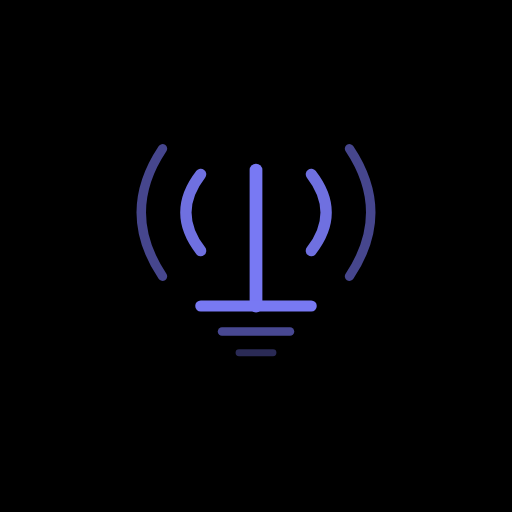
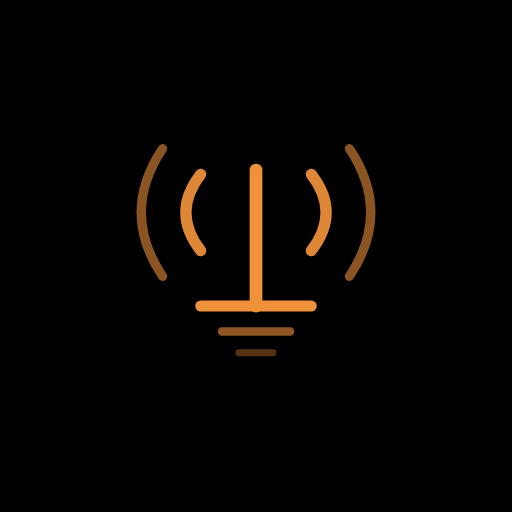
Swap accent from purple to amber; restore header theme toggle
- Replaced the indigo/purple accent with warm amber across both themes
  (--amber, --amber-dim, all glow rgba values) — restoring PileUp's
  original radio-dial color. Recolored the secondary --blue away from
  indigo to a clean complementary blue for the grid square.
- Regenerated app icons (180/192/512) and the OG share card in amber so
  the home-screen icon and link preview match the UI. Icon SVG recolored.
- Brought a one-tap light/dark toggle back into the header (it had been
  moved to Tools and was hard to find). Shows current mode, flips on tap,
  and stays in sync with the Tools buttons via applyTheme.

Version bump to 2026.07.04b (sw cache pileup-2026.07.04b).

https://claude.ai/code/session_01CcAmGgxQRBuJMKzBQd3JDc

diff --git a/index.html b/index.html
@@ -27,25 +27,25 @@
 <style>
   :root{
     --bg:#000000;--nav-bg:#080808;--panel:#0e0e0e;--panel2:#181818;--line:#282828;
-    --amber:#7879F3;--amber-dim:#5858E0;
+    --amber:#f0923c;--amber-dim:#c9772a;
     --green:#AED8CA;--green-dim:#2E8B7A;
-    --blue:#C1C1F2;--blue-dim:#8485F4;
+    --blue:#8bb4e8;--blue-dim:#5a8fd0;
     --red:#e8635a;
     --ink:#f4f4f6;--ink-dim:#9aa8c2;
     --mono:"SF Mono",ui-monospace,Menlo,Consolas,"Roboto Mono",monospace;
     --header-bg:#000000;
   }
-  .brand h1{text-shadow:0 0 14px rgba(120,121,243,.9),0 0 32px rgba(120,121,243,.5),0 0 64px rgba(120,121,243,.25);}
-  .clock .val{text-shadow:0 0 12px rgba(120,121,243,.85),0 0 28px rgba(120,121,243,.45);}
-  .ident-call{text-shadow:0 0 10px rgba(120,121,243,.75),0 0 22px rgba(120,121,243,.35);}
-  .ident-grid{text-shadow:0 0 10px rgba(193,193,242,.75),0 0 22px rgba(193,193,242,.35);}
+  .brand h1{text-shadow:0 0 14px rgba(240,146,60,.9),0 0 32px rgba(240,146,60,.5),0 0 64px rgba(240,146,60,.25);}
+  .clock .val{text-shadow:0 0 12px rgba(240,146,60,.85),0 0 28px rgba(240,146,60,.45);}
+  .ident-call{text-shadow:0 0 10px rgba(240,146,60,.75),0 0 22px rgba(240,146,60,.35);}
+  .ident-grid{text-shadow:0 0 10px rgba(139,180,232,.75),0 0 22px rgba(139,180,232,.35);}
   .netdot.on{box-shadow:0 0 8px var(--green),0 0 16px rgba(174,216,202,.5);}
 
   [data-theme="light"]{
     --bg:#F9FBFF;--nav-bg:#F7F7F7;--panel:#FFFFFF;--panel2:#F7F7F7;--line:#E4E4E4;
-    --amber:#6566F1;--amber-dim:#8485F4;
+    --amber:#c8600f;--amber-dim:#e0872f;
     --green:#2E8B7A;--green-dim:#AED8CA;
-    --blue:#5858E0;--blue-dim:#C1C1F2;
+    --blue:#1f5fb0;--blue-dim:#9cc0e8;
     --red:#C83430;
     --ink:#12202f;--ink-dim:#3a4655;
     --header-bg:linear-gradient(180deg,#F7F7F7,#FFFFFF);
@@ -119,8 +119,8 @@
       font-family:var(--mono);font-size:7px;letter-spacing:.1em;text-transform:uppercase;
       cursor:pointer;border-radius:8px;margin:0 7px;width:calc(100% - 14px);transition:.15s;}
     .snav-btn .bicon{font-size:15px;line-height:1;}
-    .snav-btn.on{color:var(--amber);background:rgba(120,121,243,.12);}
-    .snav-btn.on .bicon{text-shadow:0 0 10px rgba(120,121,243,.6);}
+    .snav-btn.on{color:var(--amber);background:rgba(240,146,60,.12);}
+    .snav-btn.on .bicon{text-shadow:0 0 10px rgba(240,146,60,.6);}
     .wrap{max-width:760px;margin:0;flex:1;min-width:0;padding-bottom:20px;}
     .bottomnav{display:none;}
   }
@@ -156,7 +156,7 @@
   input[type=text],input[type=search],input[type=number],select,textarea{
     background:var(--panel);border:1px solid var(--line);color:var(--ink);font-family:var(--mono);
     font-size:16px;padding:10px 12px;border-radius:8px;outline:none;flex:1;min-width:0;}
-  input:focus,select:focus,textarea:focus{border-color:var(--amber-dim);box-shadow:0 0 0 2px rgba(120,121,243,.2);}
+  input:focus,select:focus,textarea:focus{border-color:var(--amber-dim);box-shadow:0 0 0 2px rgba(240,146,60,.2);}
   textarea{width:100%;resize:vertical;min-height:54px;}
   .hint{font-size:10.5px;color:var(--ink-dim);line-height:1.6;letter-spacing:.03em;}
   .count{font-size:11.5px;letter-spacing:.12em;color:var(--ink-dim);text-transform:uppercase;margin:4px 2px 9px;}
@@ -247,6 +247,7 @@
   <header>
     <div class="brand">
       <h1>PILEUP</h1><span class="sub">POTA · SOTA Operating Log</span>
+      <button class="tgl-btn" id="themeToggle" title="Toggle light / dark theme" style="margin-left:auto">◑ Dark</button>
     </div>
     <div class="ident">
       <span id="hdrCall" class="ident-call"></span>
@@ -380,7 +381,7 @@
 
 <script>
 "use strict";
-const VERSION="2026.07.04";
+const VERSION="2026.07.04b";
 
 /* ============ reference data ============ */
 const HAM=[["160 m","1800","2000"],["80 m","3500","4000"],
@@ -451,6 +452,7 @@ function applyTheme(t){
   PREFS.theme=t||"";saveJSON(K.prefs,PREFS);
   const mc=document.querySelector('meta[name="theme-color"]');if(mc)mc.content=t==="light"?"#F9FBFF":"#000000";
   document.querySelectorAll("[data-theme-btn]").forEach(b=>b.classList.toggle("on",b.dataset.themeBtn===(t||"")));
+  const tt=document.getElementById("themeToggle");if(tt)tt.textContent=t==="light"?"◐ Light":"◑ Dark";
 }
 function applyZoom(z){
   PREFS.zoom=z;saveJSON(K.prefs,PREFS);
@@ -702,6 +704,7 @@ function showTab(name){
 
 /* ============ wire up ============ */
 document.querySelectorAll("[data-theme-btn]").forEach(b=>b.addEventListener("click",()=>applyTheme(b.dataset.themeBtn)));
+document.getElementById("themeToggle").addEventListener("click",()=>applyTheme(document.documentElement.dataset.theme==="light"?"":"light"));
 document.querySelectorAll("[data-zoom-btn]").forEach(b=>b.addEventListener("click",()=>applyZoom(parseFloat(b.dataset.zoomBtn))));
 document.getElementById("hr24Toggle").addEventListener("change",e=>{PREFS.hr24=e.target.checked;saveJSON(K.prefs,PREFS);tick();});
 document.getElementById("kioskBtn").addEventListener("click",toggleKiosk);

diff --git a/sw.js b/sw.js
@@ -1,4 +1,4 @@
-const CACHE = "pileup-2026.07.04";
+const CACHE = "pileup-2026.07.04b";
 const SHELL = [
   "/PileUp/",
   "/PileUp/index.html",